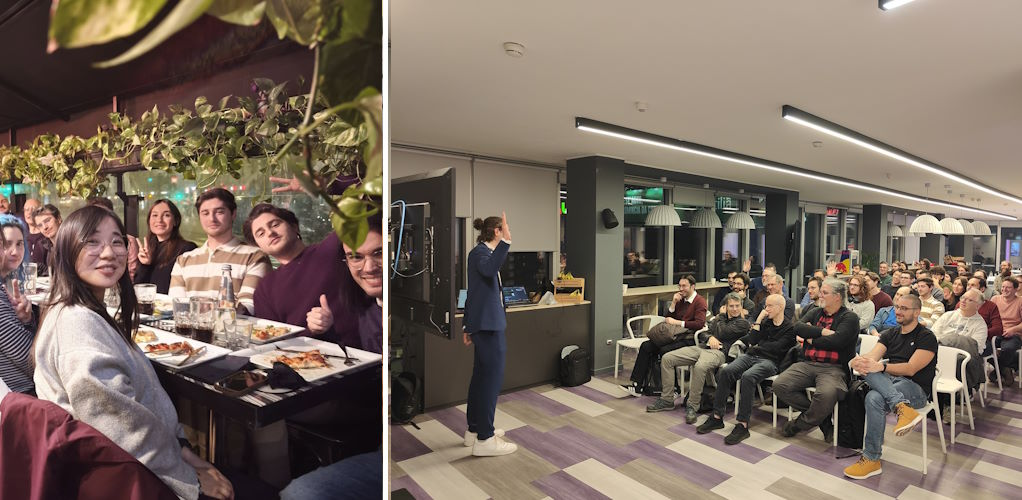
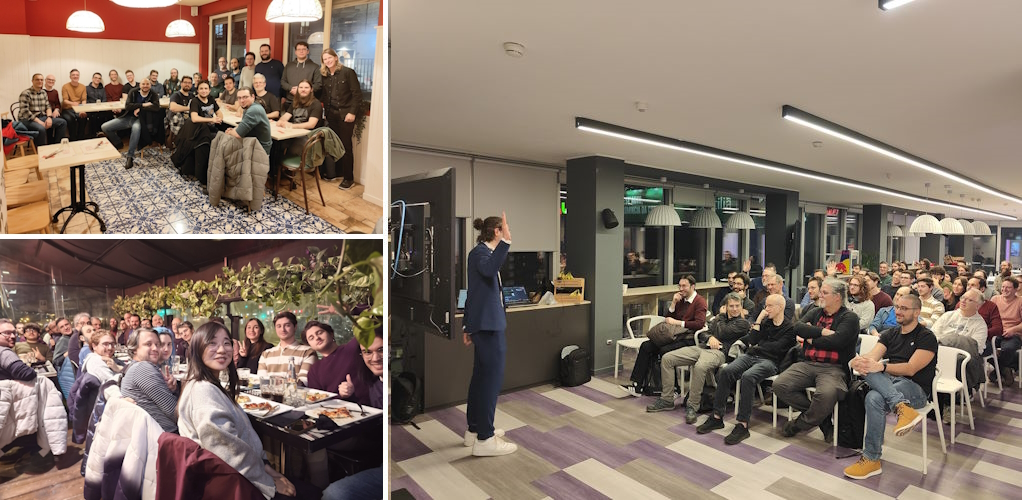
adding march c++ meetup

diff --git a/README.md b/README.md
@@ -326,8 +326,13 @@ List of meetups, including speakers and topics discussed:
 
 - **February 20**: **Emanuele Pardini** speaking about [Build a Tower Defense in Unreal Engine 5](https://italiancpp.org/eventi/2025-02-19-unreal/);<br/>
 Venue: *Prima Assicurazioni* <br/>
-[📹 Video (ITA)](https://www.youtube.com/watch?v=KT2KjtYrF0s)<br/>
+[📹 Video (ITA)](https://www.youtube.com/watch?v=krN9WUVjLHE)<br/>
 51 in person + 10 online attendees.
+
+- **March 19**: **Ettore Barattelli** speaking about [C++ per sistemi embedded real-time]https://italiancpp.org/eventi/2025-03-19-mi/);<br/>
+Venue: *Prima Assicurazioni* <br/>
+[📹 Video (ITA)](https://www.youtube.com/watch?v=KT2KjtYrF0s)<br/>
+60 in person + 12 online attendees.
 
 ### [ML Modena Meetups - Season 2025](https://mlmodena.it)
 
